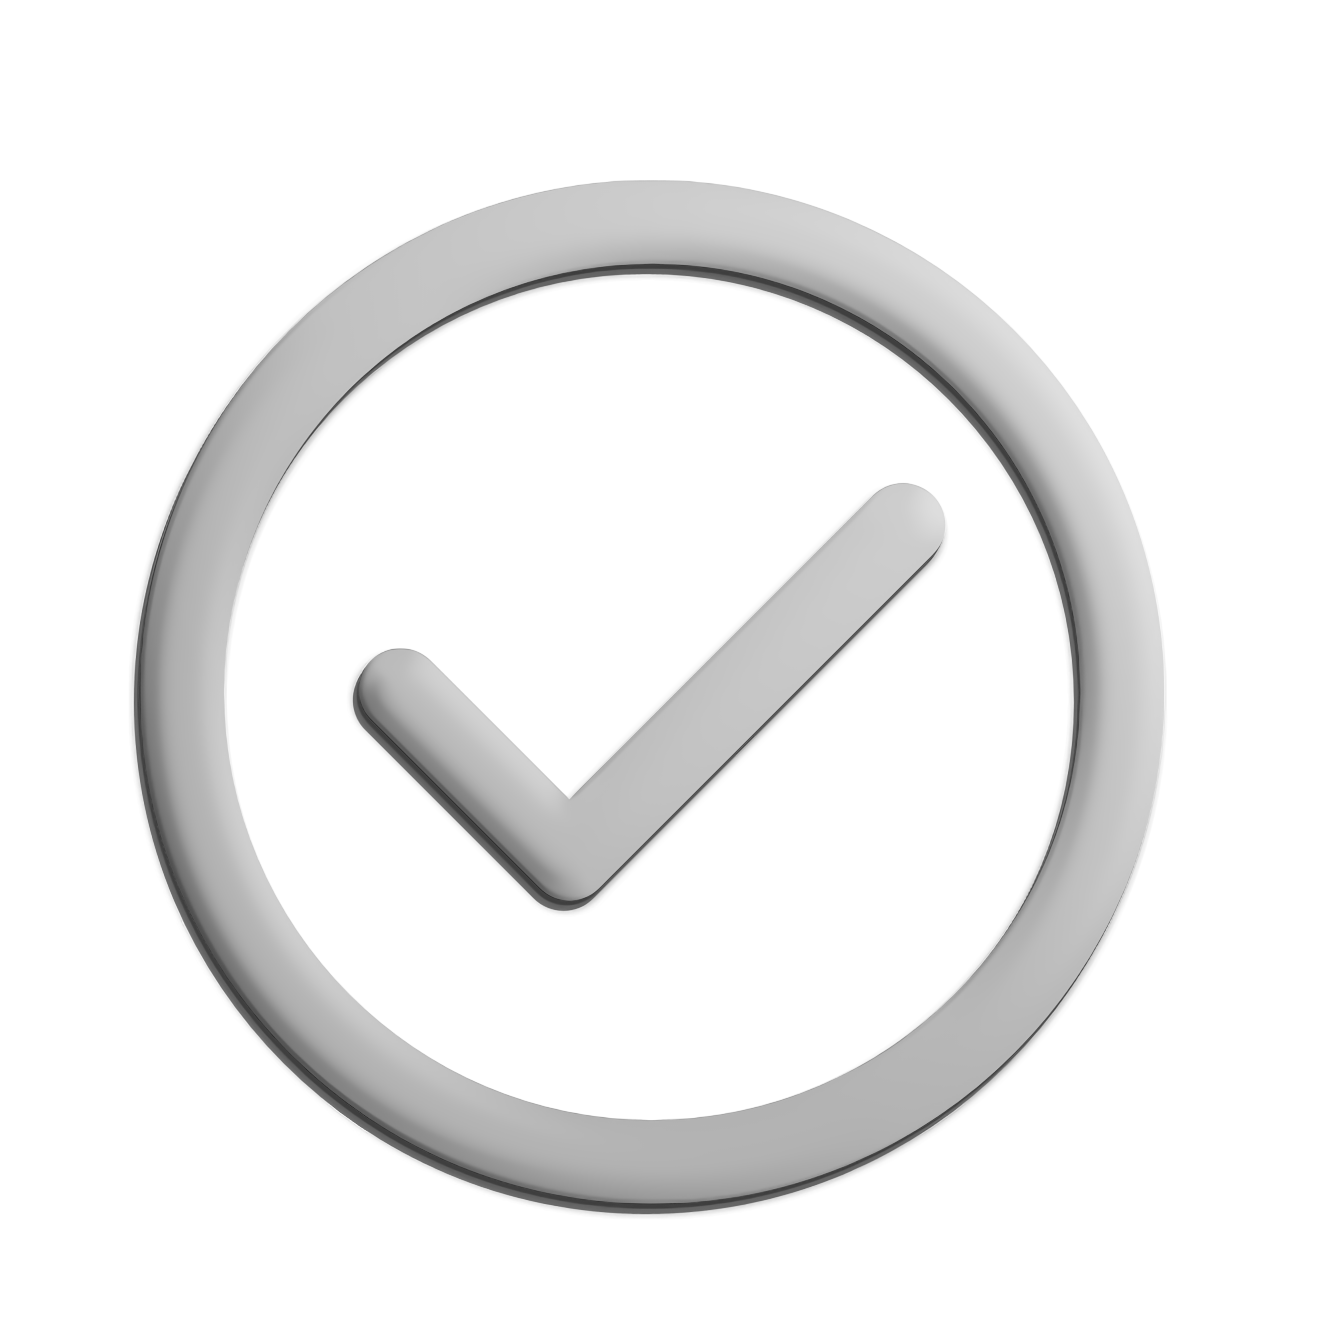
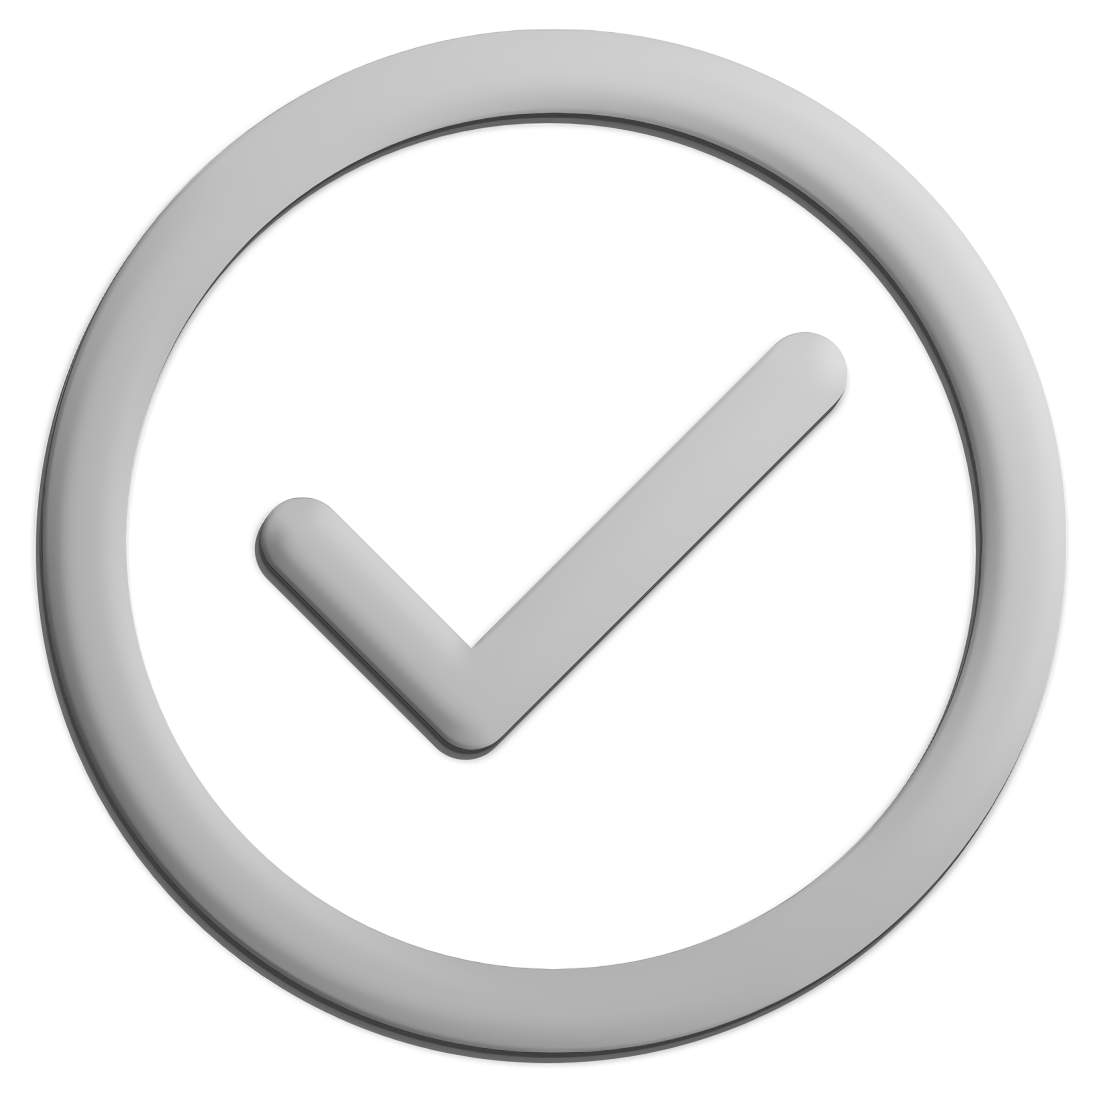
neomorphic, and it compiles!

diff --git a/src/components/MemoryTable.tsx b/src/components/MemoryTable.tsx
@@ -8,8 +8,8 @@ import {
     TextField,
     Tooltip
 } from "@material-ui/core";
-import * as checkmarkIcon from "../images/indicators/checkmarkIcon.png"
-import * as xmarkIcon from "../images/indicators/xmarkIcon.png"
+import * as checkmarkIndicator from "../images/indicators/checkmarkIndicator.png"
+import * as circleIndicator from "../images/indicators/circleIndicator.png"
 import { MegaContext } from './MegaContext';
 import { IMegaDockerState } from "../interfaces/IMegaDockerState";
 import { IMemory } from "../interfaces/IMemory";
@@ -56,7 +56,7 @@ export const MemoryTable: React.FC<any> = (props: any): React.ReactElement => {
                         className="MemoryHeaderRow">
                         <TableCell variant='head' style={{ width: '15%' }}>Settings</TableCell>
                         <TableCell variant='head' style={{ width: '80%' }} />
-                        <TableCell variant='head' style={{ width: '5%' }} ><img alt="" src={fullyValidated ? checkmarkIcon : xmarkIcon} height={20} width={20} /></TableCell>
+                        <TableCell variant='head' style={{ width: '5%' }} ><img alt="" src={fullyValidated ? checkmarkIndicator : circleIndicator} height={20} width={20} /></TableCell>
                     </TableRow>
                 </TableHead>
                 <TableBody
@@ -92,7 +92,7 @@ export const MemoryTable: React.FC<any> = (props: any): React.ReactElement => {
                                         alt='ready indicator'
                                         height={20}
                                         width={20}
-                                        src={thisMemory.value === `` ? xmarkIcon : (thisMemory.validator(thisMemory.value).valueOf() ? checkmarkIcon : xmarkIcon)} />
+                                        src={thisMemory.value === `` ? circleIndicator : (thisMemory.validator(thisMemory.value).valueOf() ? checkmarkIndicator : circleIndicator)} />
                                 </TableCell>
                             </TableRow>
                         </Tooltip>
